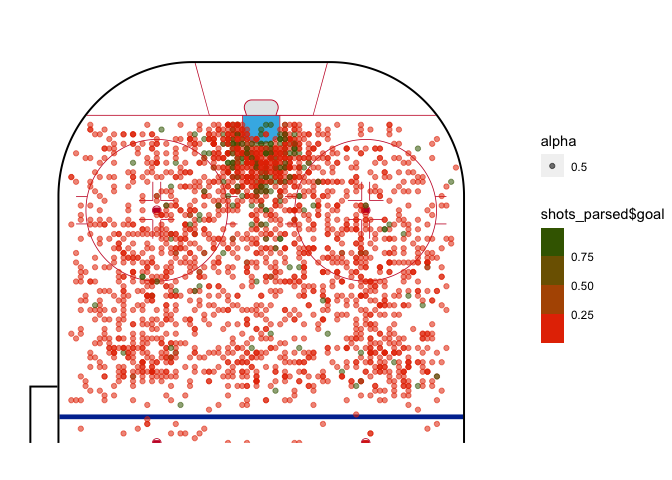
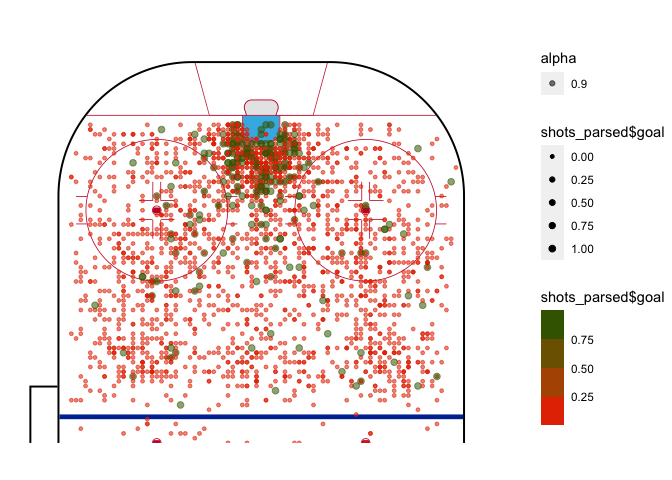
Updating Plots

diff --git a/NHL_xG.md b/NHL_xG.md
@@ -228,8 +228,9 @@ shots_parsed <- shots %>%
   sample_n(2500)
 
 geom_hockey(league = "NHL", rotation = 90, display_range = "ozone") +
-  geom_point(aes(x = shots_parsed$st_y, y = shots_parsed$st_x, col = shots_parsed$goal, size = shots$parsed$goal, alpha = 0.5)) +
-  scale_color_binned(low ="red", high = "darkgreen")
+  geom_point(aes(x = shots_parsed$st_y, y = shots_parsed$st_x, col = shots_parsed$goal, alpha = 0.9, size = shots_parsed$goal)) +
+  scale_color_binned(low ="red", high = "darkgreen") +
+  scale_size_continuous(range = c(1,2))
 
 geom_hockey(league = "NHL", rotation = 90, display_range = "ozone") +
   geom_density2d_filled(aes(x = shots_parsed$st_y, y = shots_parsed$st_x, alpha = 0.5),
